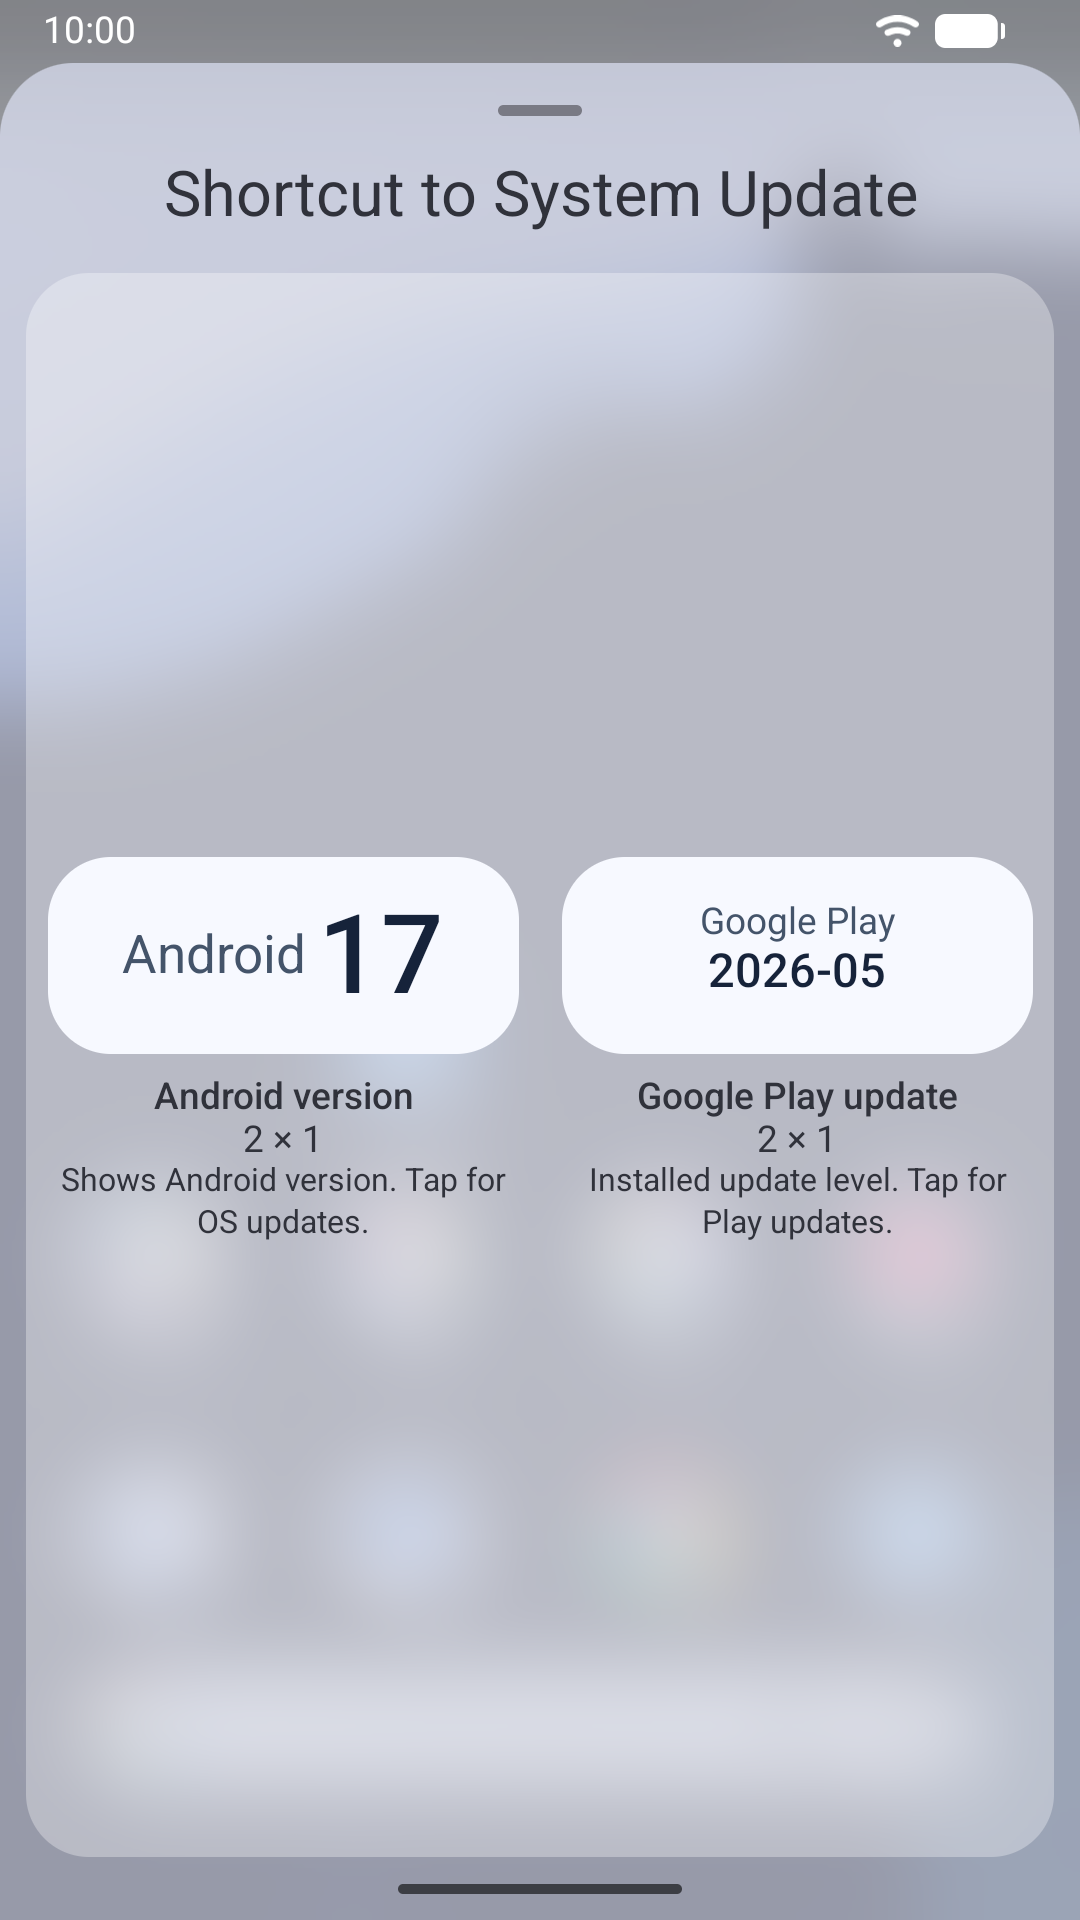
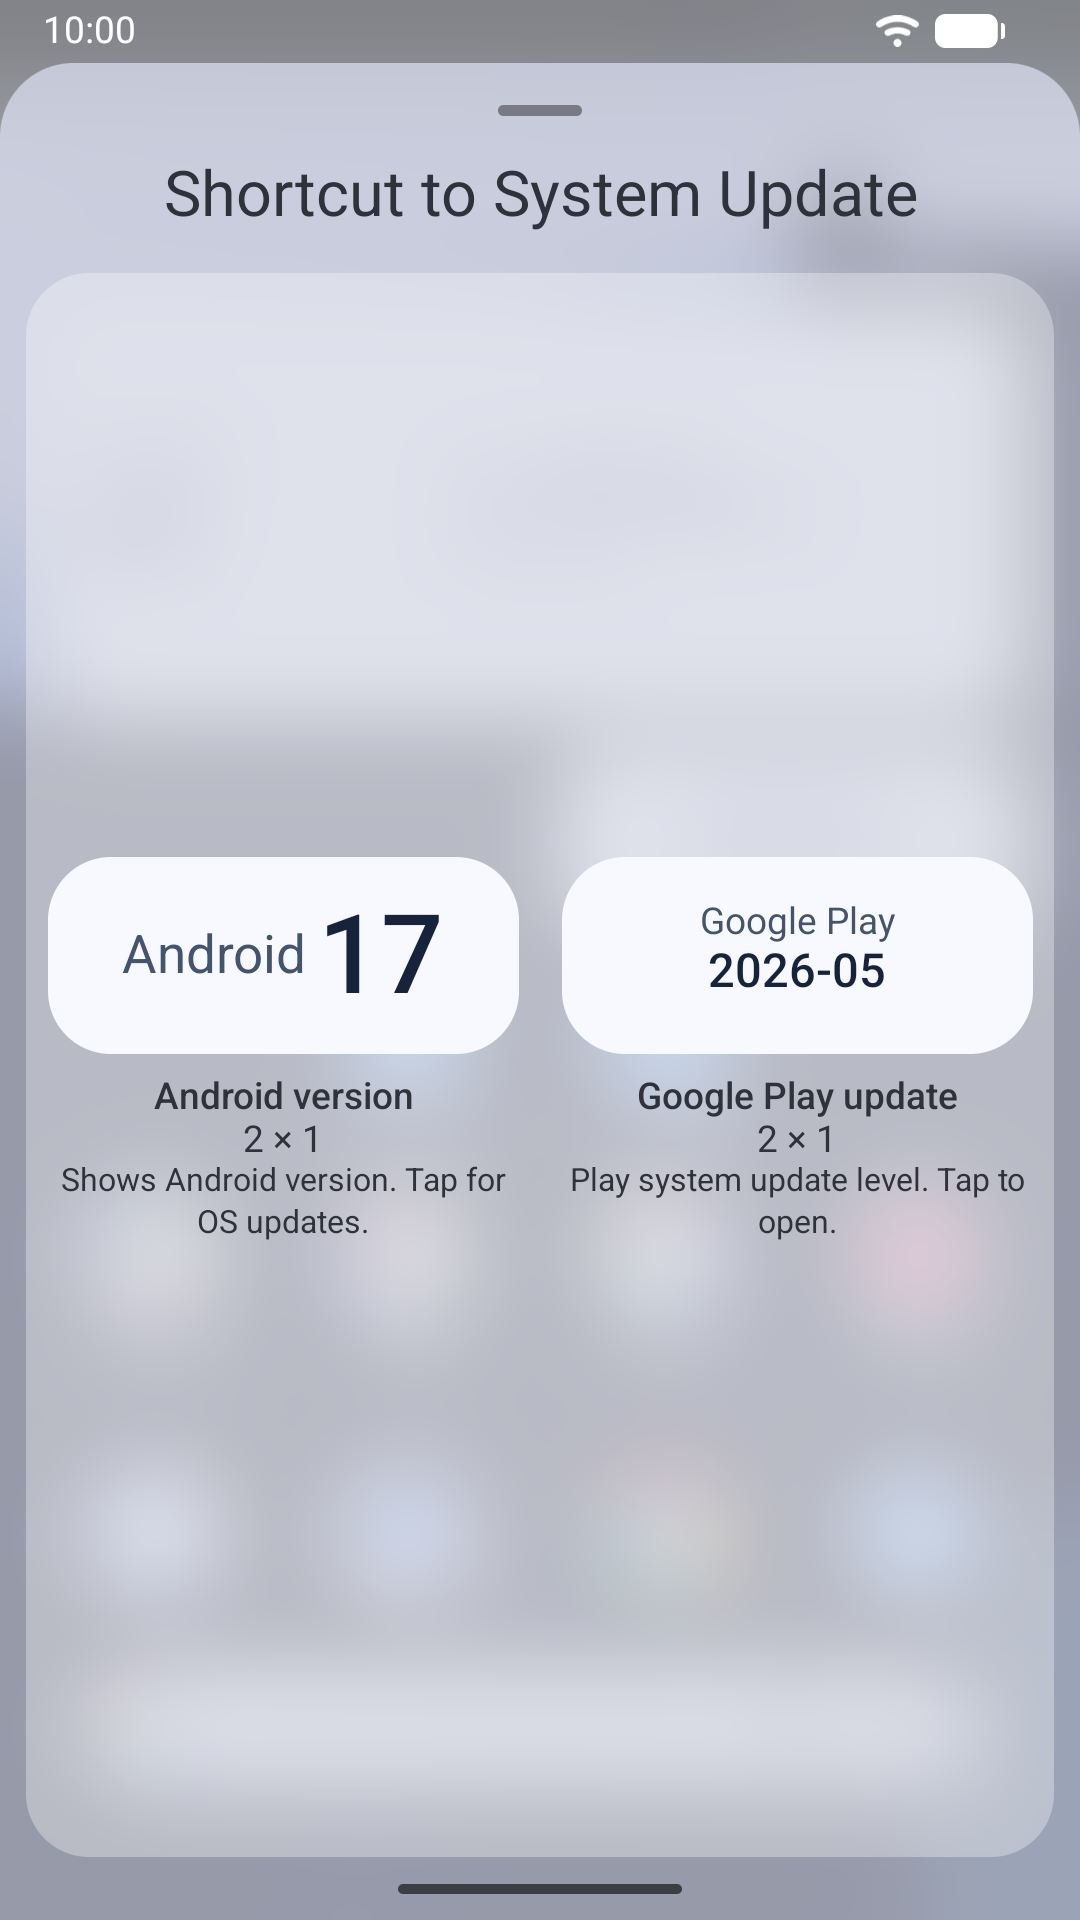
Clarify system update picker and accessibility descriptions

Changed region(s): [[0.1528, 0.1562, 0.9472, 0.4688], [0.5194, 0.5938, 0.9472, 0.6562], [0.5806, 0.5312, 0.6417, 0.5625]]

diff --git a/docs/google-play/1.3.0/README.md b/docs/google-play/1.3.0/README.md
@@ -143,9 +143,11 @@ examples, not claims that a device is up to date.
 ### Capture setup
 
 - App: debug build of version 1.3.0 (version code 6), with the widget resources
-  from source commit `1610dd9`. English images 1–3 and 5, and Japanese image 5,
-  were recaptured with `e190e53` after restoring the launcher label and refining
-  the picker/accessibility resources.
+  prepared in [PR #6](https://github.com/75py/YourSystemIsUpToDate/pull/6).
+  In the second capture pass, English images 1–3 and 5, and Japanese image 5,
+  were recaptured after restoring the launcher label and refining the
+  picker/accessibility resources. Both image 5 files were captured again after
+  clarifying that the Google Play widget opens system update settings.
 - Device: Pixel 2 profile, Android 17 / API 37 Google Play emulator, Pixel Launcher.
   SDK image: `system-images;android-37.1;google_apis_playstore_ps16k;arm64-v8a`
   revision 9, build `CP31.260623.012`.
